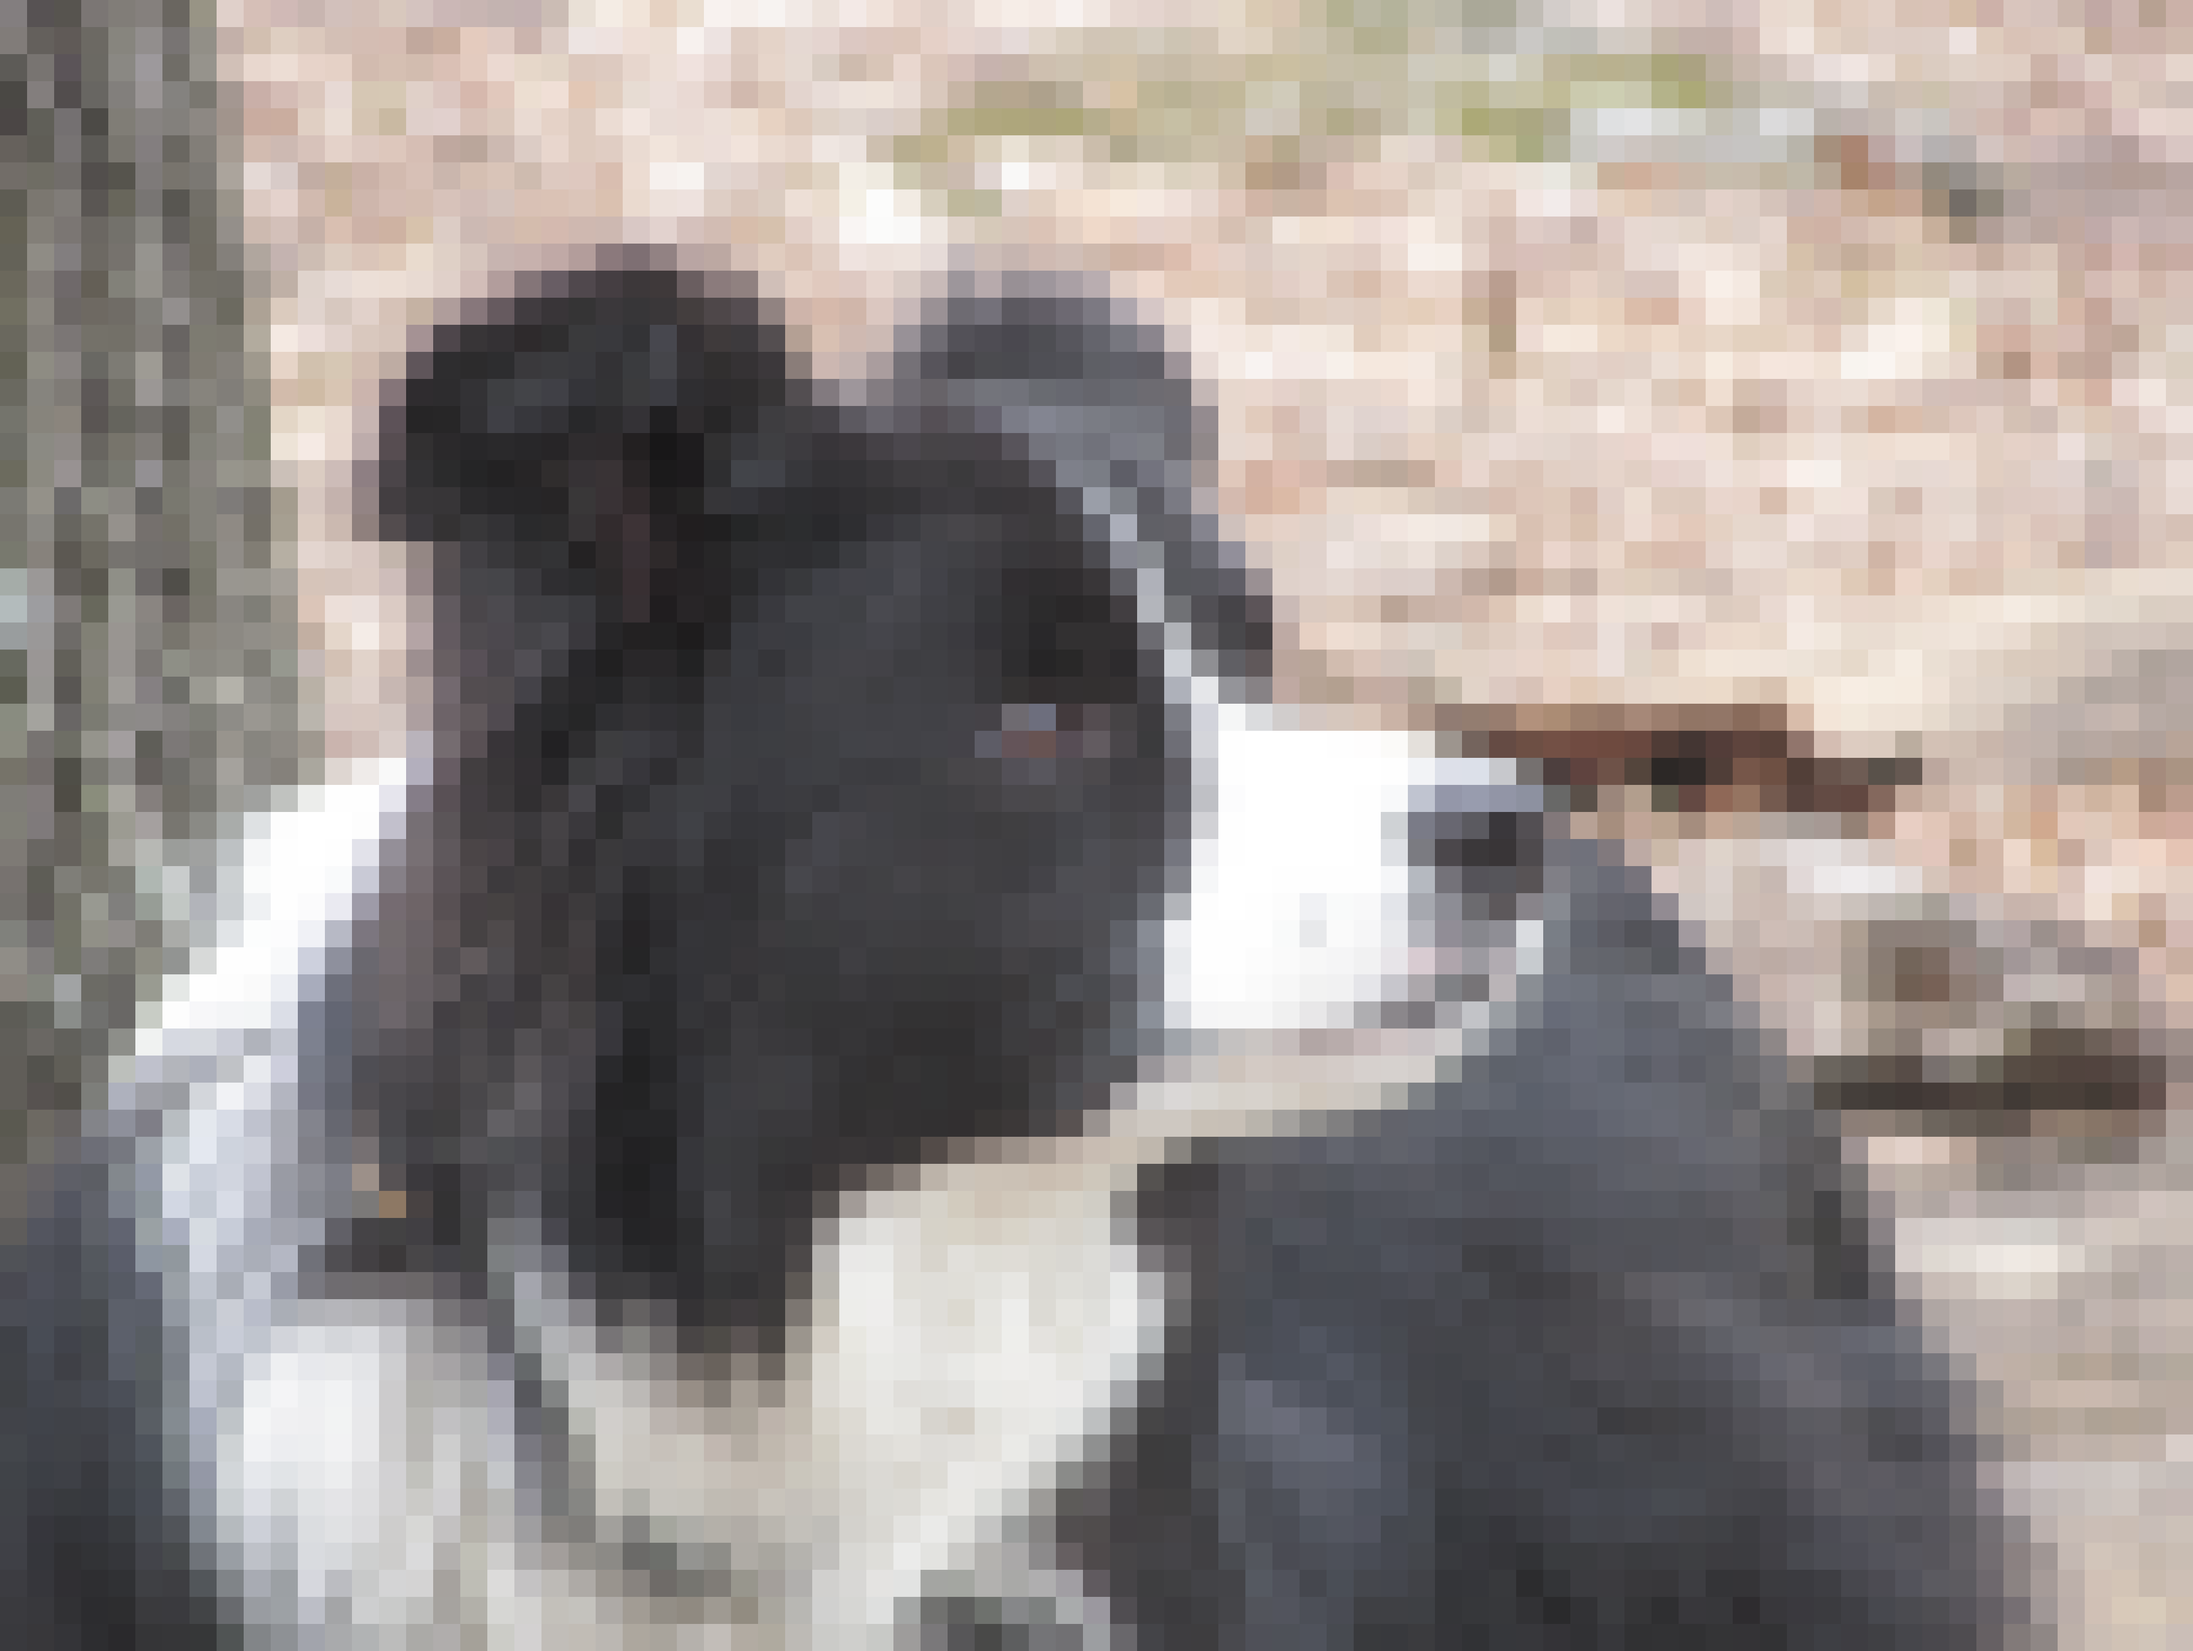
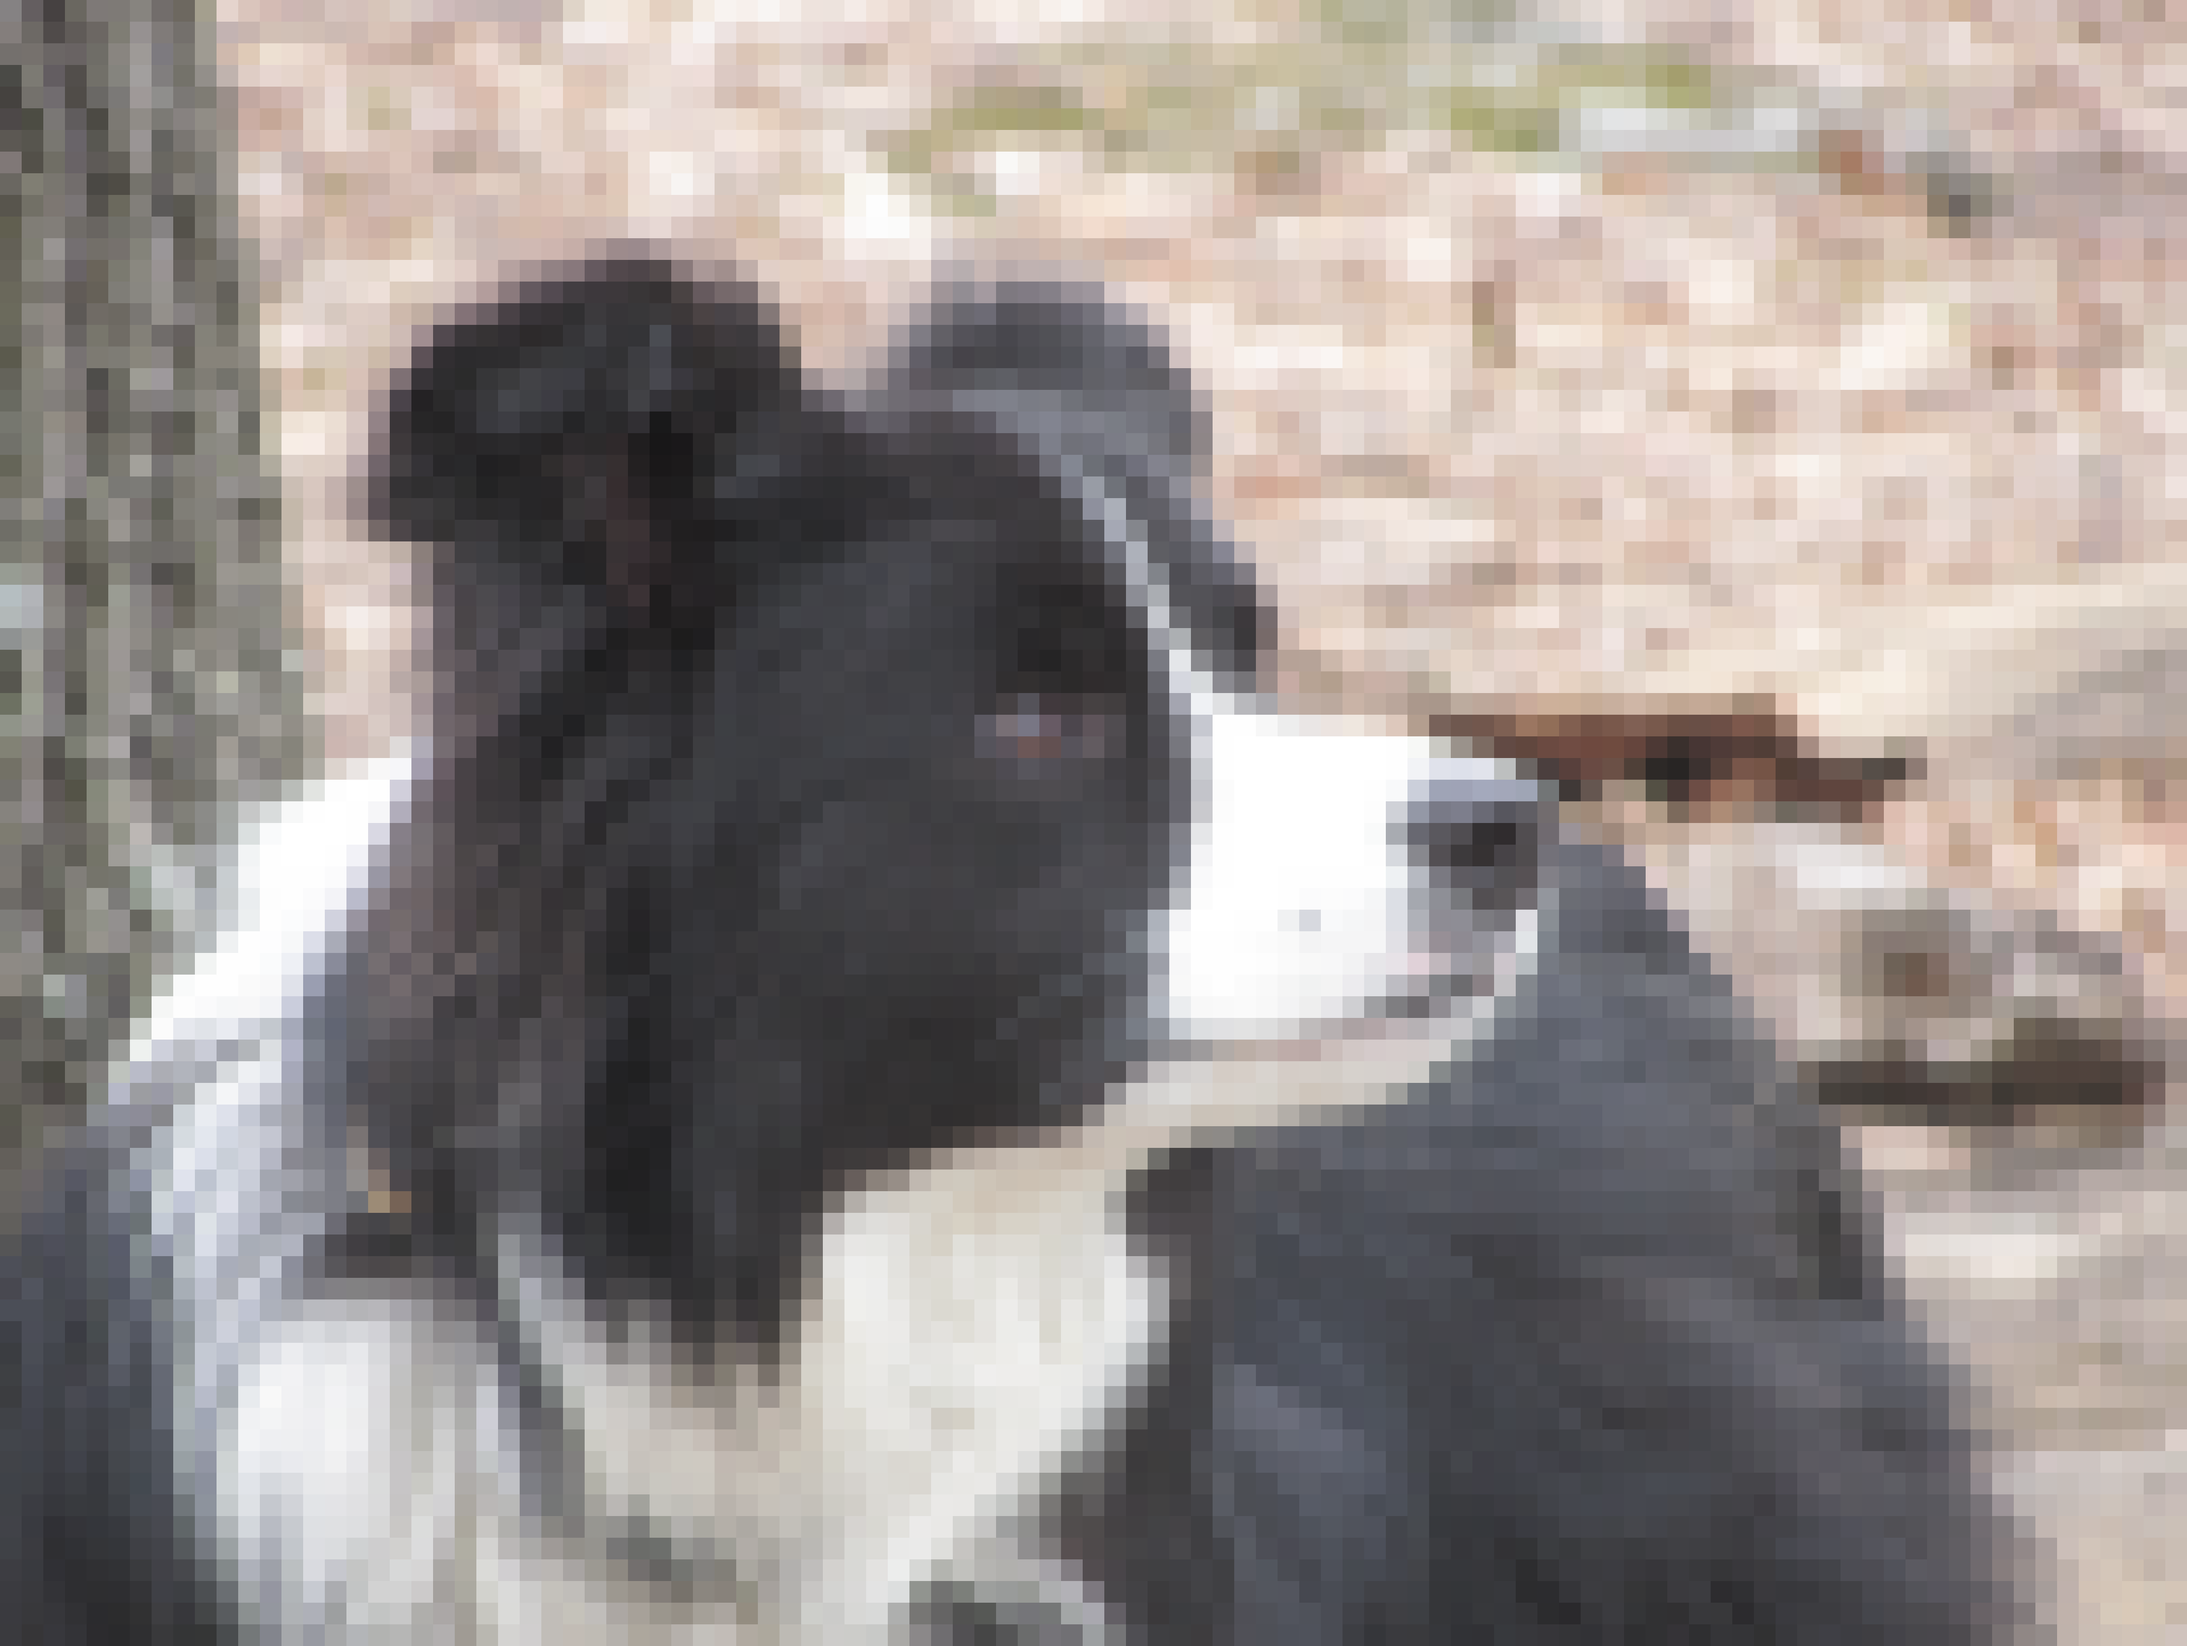
v2 dev - rework point gen system

diff --git a/v2/src/main.rs b/v2/src/main.rs
@@ -20,15 +20,21 @@ use crate::{imagerep::BlockedImage, tris::point::MaybeAtomicPoint};
 // this will be configurable by a CLI later
 const IMAGE_PATH: &str = "../img/ted-hiking-002.jpg";
 const INPUT_CFG: InputConfig = InputConfig {
-    pixels_per_block: 50,
-    verts_per_block: 1,
+    num_verts: 50,
+    blocks_per_vert: 2,
+    // pixels_per_block: 50,
+    // verts_per_block: 1,
 };
 pub struct InputConfig {
-    /// size (in pixels) of each 'block' that the image is broken up into (blocks are like pixels, but contains
-    /// information about the individual subpixels they contain)
-    pub pixels_per_block: u32,
-    /// number of vericies per each block
-    pub verts_per_block: u32,
+    /// number of verts across the width of the image.
+    pub num_verts: u32,
+    /// number of `blocks` (pixels, basically) per vert across the width of the image
+    pub blocks_per_vert: u32,
+    // /// size (in pixels) of each 'block' that the image is broken up into (blocks are like pixels, but contains
+    // /// information about the individual subpixels they contain)
+    // pub pixels_per_block: u32,
+    // /// number of vericies per each block
+    // pub verts_per_block: u32,
 }
 const OUTPUT_PATH: &str = "out.png";
 const OUTPUT_CFG: OutputConfig = OutputConfig {};
@@ -38,59 +44,57 @@ pub struct OutputConfig {}
 async fn main() -> Result<()> {
     pretty_env_logger::init();
 
-    let raw_image = &image::open(IMAGE_PATH)?;
-    let blocked = BlockedImage::new(&raw_image.to_rgb8(), INPUT_CFG.pixels_per_block);
+    let blocked = {
+        let raw_image = &image::open(IMAGE_PATH)?;
+        let pixels_per_block = raw_image.width() / (INPUT_CFG.num_verts * INPUT_CFG.blocks_per_vert);
+        let blocked = BlockedImage::new(&raw_image.to_rgb8(), pixels_per_block);
+        blocked
+    };
 
-    let rendered_blocked = blocked.render_original_res();
+    let rendered_blocked = DynamicImage::ImageRgb8(blocked.render_original_res()).into_rgba8();
     rendered_blocked.save("out.png")?;
-    let rendered_blocked = DynamicImage::ImageRgb8(rendered_blocked).into_rgba8();
 
     //? code for creating tri grid
 
     // in block to enforece/make clear what is being used where
-    let (multfn, verts) = {
-        // (0, 0) is top left corner
-        // offset per "block" is 5 (regulates percision and stuff)
-        const OFFSET_PER_BLOCK: f64 = 5.0;
-        // let max_coords = (
-        //     OFFSET_PER_BLOCK * blocked.width() as f64,
-        //     OFFSET_PER_BLOCK * blocked.height() as f64,
-        // );
-        let verts_per_block = INPUT_CFG.verts_per_block; // true only for width
+    let (multfn, verts, (verts_per_row, num_rows)) = {
         // offset for x (=0.5) for each row.
         let offset_width_unit = 60.0f64.to_radians().cos();
         // dy for changing rows
         let inc_height_unit = 60.0f64.to_degrees().sin();
         let inc_width_unit = 2.0 * offset_width_unit;
 
-        // val to add each y inc
-        let inc_height_scaled = (inc_height_unit / verts_per_block as f64) * OFFSET_PER_BLOCK; // scale same ammount as width (verts per block does not hold here)
-        // val to add each x inc
-        let inc_width_scaled = (inc_width_unit / verts_per_block as f64) * OFFSET_PER_BLOCK;
-        // val to alternatingly subtract from x/leave for each row
-        let offset_width_scaled = (offset_width_unit / verts_per_block as f64) * OFFSET_PER_BLOCK;
+        const OFFSET_PER_VERT: f64 = 10.0;
+        let num_blocks_w = blocked.width();
+        let num_blocks_h = blocked.height();
+        let num_verts_w = (num_blocks_w as f64 / ( INPUT_CFG.blocks_per_vert as f64 * inc_width_unit /* not needed as is basically x*1, here for consistancy */)) as u32;
+        let num_verts_h = (num_blocks_h as f64 / ( INPUT_CFG.blocks_per_vert as f64 * inc_height_unit )) as u32;
 
-        let mut verts: Vec<MaybeAtomicPoint> = vec![];
-
-        let max_y_idx = ((verts_per_block * blocked.height()) as f64 / inc_height_unit).ceil() as u32;
-        // add y % 2 to this to get real x offset
-        let max_x_idx = verts_per_block * blocked.width();
-        for y in 0..=max_y_idx {
-            for x in 0..=(max_x_idx + y % 2) {
-                let is_atomic = false;
-                let atomic = MaybeAtomicPoint::new(is_atomic);
-                // TODO: calculate pos with multiplication to avoid accumulating error
-                unsafe { atomic.store(is_atomic, (x as f64 * inc_width_scaled - offset_width_scaled * (y % 2) as f64, y as f64 * inc_height_scaled)) }
-                verts.push(atomic);
+        let mut verts = Vec::<(f64, f64)>::new();
+        // size (x, y)
+        let (verts_per_row, num_rows) = (num_verts_w+1, num_verts_h);
+        for y in 0..=num_rows {
+            for x in 0..=verts_per_row {
+                verts.push(((x as f64 - offset_width_unit * (y % 2) as f64) * OFFSET_PER_VERT, y as f64 * OFFSET_PER_VERT));
             }
         }
+
+        let atomic_verts: Vec<MaybeAtomicPoint> = verts.into_iter()
+            .map(|vert| {
+                 let point = MaybeAtomicPoint::new(false);
+                 unsafe { point.store(false, vert) }
+                 point
+            })
+            .collect();
         (
             move |rect_size: (f64, f64)| {
-                let xmult = ((rect_size.0 / verts_per_block as f64) / blocked.width() as f64) / OFFSET_PER_BLOCK;
-                let ymult = ((rect_size.1 / verts_per_block as f64) / blocked.height() as f64) / OFFSET_PER_BLOCK;
+                // let xmult = ((rect_size.0 / verts_per_block as f64) / blocked.width() as f64) / OFFSET_PER_BLOCK;
+                // let ymult = ((rect_size.1 / verts_per_block as f64) / blocked.height() as f64) / OFFSET_PER_BLOCK;
+                let (xmult, ymult): (f64, f64) = ( rect_size.0 / num_verts_w as f64 / OFFSET_PER_VERT, rect_size.1 / num_verts_h as f64 / OFFSET_PER_VERT );
                 (xmult, ymult)
             },
-            verts
+            atomic_verts,
+            (verts_per_row, num_rows),
         )
     };
 
